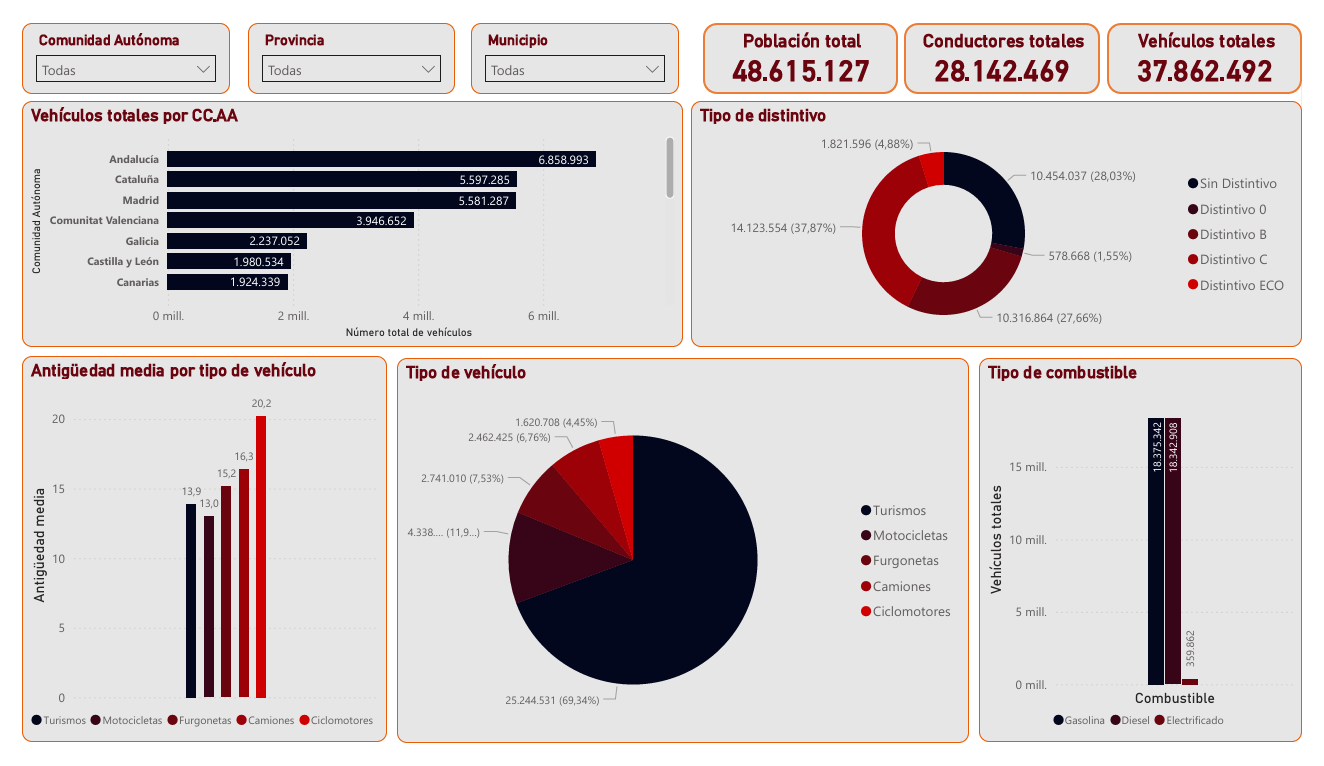
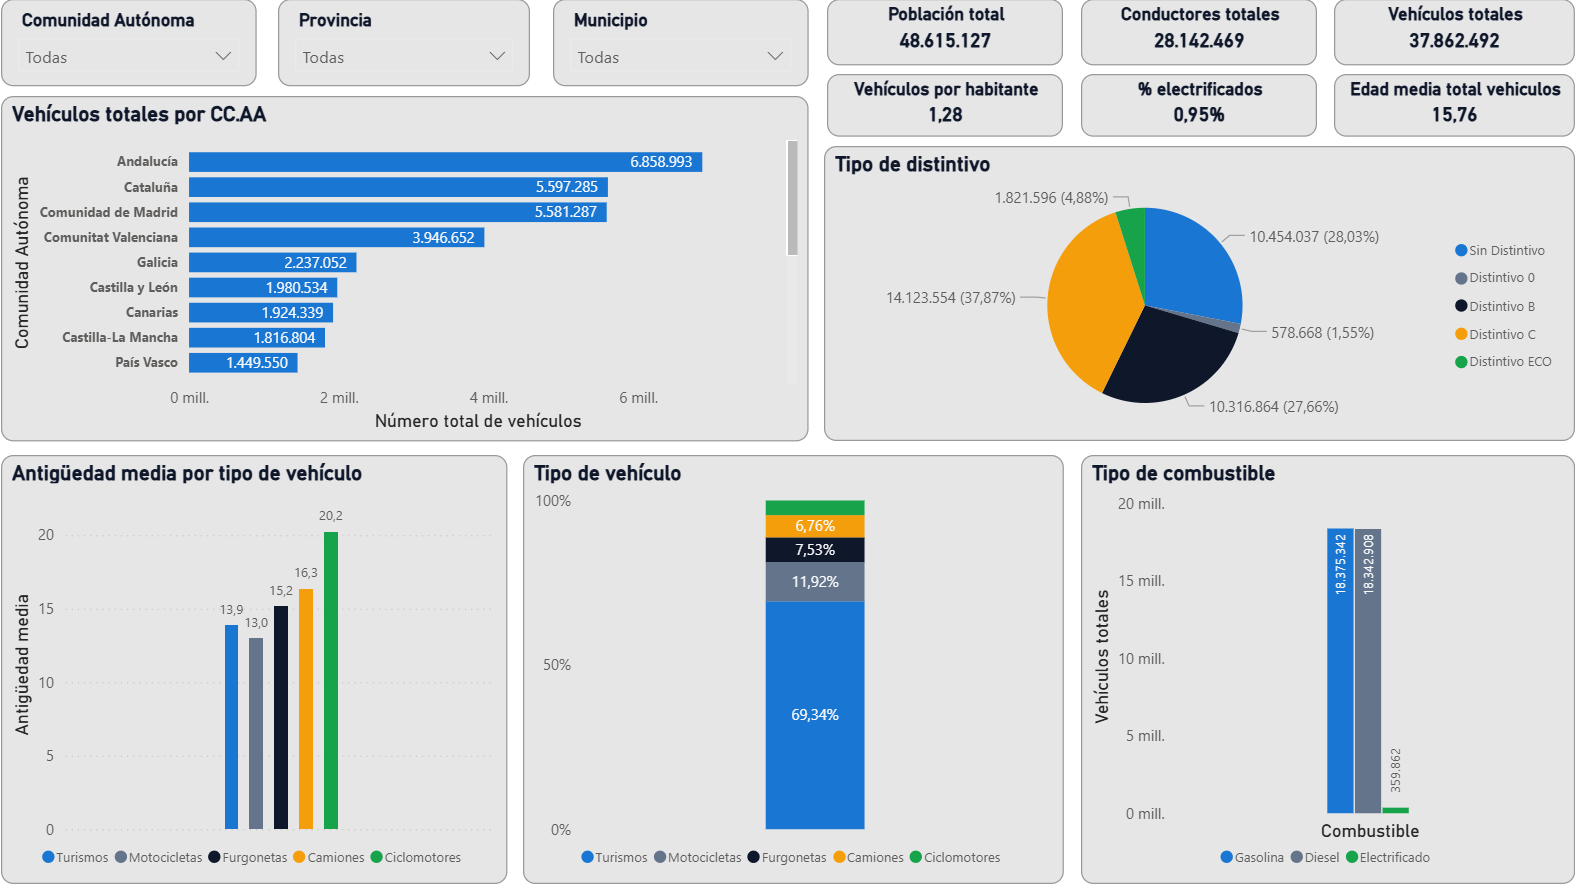
README and screenshot changes

diff --git a/README.md b/README.md
@@ -1,0 +1,157 @@
+Contenidos / Contents:
+
+- [Spanish version](#spanish-version)
+- [English version](#english-version)
+
+## Spanish version ### 
+
+## [Dashboard interactivo](https://app.powerbi.com/view?r=eyJrIjoiYjgxYzFmNWMtMmM2NS00MjMwLWI4OTktYWI5M2Q4OTViODg3IiwidCI6IjMxNjUxZjMwLWUwZTktNDMxYy04YzVlLWY1YzQ5MTMwZjY2MiIsImMiOjh9)
+
+Los datos públicos contienen información valiosa, pero sin un tratamiento analítico adecuado resultan difíciles de interpretar y utilizar para la toma de decisiones. El parque automovilístico español es un buen ejemplo: millones de registros distribuidos territorialmente que, sin modelado ni visualización estructurada, no permiten identificar patrones relevantes. 
+
+Este proyecto analiza el parque de vehículos en España en **2024** con el objetivo de extraer insights estratégicos sobre distribución territorial, composición por tipo de vehículo, envejecimiento del parque y grado de electrificación. 
+
+![Dashboard](images/dashboard_screenshot.png) 
+
+## Impacto del análisis: 
+Este dashboard permite: 
+- Detectar desequilibrios territoriales en el parque automovilístico. 
+- Evaluar el ritmo real de transición hacia movilidad sostenible. 
+- Identificar el envejecimiento estructural del parque español. 
+- Servir como base para análisis predictivos o estudios de política pública. 
+
+## Objetivos 
+- Analizar la distribución del parque automovilístico por Comunidad Autónoma. 
+- Evaluar la composición por tipo de vehículo. 
+- Medir el grado de electrificación del parque. 
+- Estudiar la edad media de los vehículos y sus implicaciones. 
+- Construir un dashboard interactivo que permita explorar los datos de forma intuitiva. 
+
+## Fuente de datos 
+Los datos han sido obtenidos en formato Excel a través de la web oficial de la [DGT](https://www.dgt.es/menusecundario/dgt-en-cifras/dgt-en-cifras-resultados/dgt-en-cifras-detalle/Datos-municipales-informacion-general-2024/). Contienen información sobre:
+
+- La composición del parque de vehículos en España 
+- La antigüedad de los vehículos 
+- El censo de conductores 
+- La cantidad de vehículos por Comunidad Autónoma, provincia y municipio 
+- La distribución de vehículos según los distintos tipos de distintivos ambientales 
+- El total de vehículos y su clasificación por tipo 
+
+## Visualizaciones 
+- **KPIs**: Nº total de vehículos, nº total de conductores, porcentaje de vehículos electrficados, vehículos por habitante, edad media total de vehículos 
+- **Gráfico de barras horizontales**: Número total de vehículos por Comunidad Autónoma 
+- **Gráfico de barras verticales**: Antigüedad promedio por tipo de vehículo 
+- **Gráfico de barras horizontales apiladas**: Distribución de tipos de vehículos 
+- **Gráfico de tarta**: Distribución de distintivos ambientales 
+- **Gráfico de barras verticales**: Distribución de tipo de combustible 
+- **Segmentadores**: Comunidad Autónoma, provincia y municipio 
+
+## Metodología 
+El desarrollo del proyecto incluyó: 
+- Limpieza y estandarización de nombres geográficos. 
+- Modelado relacional en Power BI. 
+- Creación de medidas DAX para agregaciones y KPIs. 
+- Diseño orientado a usabilidad y claridad ejecutiva. 
+
+## Insights Clave 
+- El 69% del parque está compuesto por turismos, lo que confirma un modelo de movilidad centrado en vehículo privado ligero. 
+- La electrificación (<1%) muestra una adopción todavía marginal, lejos de los objetivos europeos de descarbonización. 
+- La edad media superior a 15 años indica un parque envejecido, con impacto potencial en emisiones y seguridad vial. 
+- Andalucía, Cataluña y Madrid concentran el mayor volumen absoluto de vehículos, evidenciando desequilibrios territoriales. 
+
+### Conclusión
+El análisis revela una transición energética más lenta de lo esperado y una estructura de parque envejecida, lo que plantea desafíos significativos para las políticas públicas de movilidad sostenible y renovación del parque. 
+
+## Herramientas utilizadas 
+- Power BI Desktop 
+- DAX 
+- Excel 
+
+## Archivos 
+- `data/`: dataset utilizado 
+- `docs/`: paleta de colores utilizada para el dashboard 
+- `images/`: capturas de pantalla del dashboard 
+- `vehiculos_españa_dashboard.pbit`: plantilla del dashboard **sin datos** 
+- `vehiculos_españa_dashboard.pbix`: versión completa del dashboard lista para abrir (1,6 MB, datos públicos) 
+
+## Notas 
+- Los valores mostrados corresponden a promedios y totales agregados. 
+- El análisis depende de la calidad y actualización de los datos publicados por la DGT.
+
+
+## English version
+
+## [Interactive Dashboard](https://app.powerbi.com/view?r=eyJrIjoiYjgxYzFmNWMtMmM2NS00MjMwLWI4OTktYWI5M2Q4OTViODg3IiwidCI6IjMxNjUxZjMwLWUwZTktNDMxYy04YzVlLWY1YzQ5MTMwZjY2MiIsImMiOjh9)
+
+Public data contains valuable information, but without proper analytical treatment it is difficult to interpret and use for decision-making. The Spanish vehicle fleet is a clear example: millions of territorially distributed records that, without structured modeling or visualization, make it hard to identify meaningful patterns.  
+
+This project analyzes Spain’s vehicle fleet in **2024** with the objective of extracting strategic insights about territorial distribution, vehicle type composition, fleet aging, and electrification levels.  
+
+![Dashboard](images/dashboard_screenshot_en.png)
+
+## Analysis Impact
+This dashboard allows you to:
+
+- Detect territorial imbalances in the vehicle fleet.  
+- Evaluate the real pace of transition toward sustainable mobility.  
+- Identify structural aging within the Spanish fleet.  
+- Serve as a basis for predictive analyses or public policy studies.
+
+## Objectives
+- Analyze the distribution of the vehicle fleet by Autonomous Community.  
+- Evaluate the composition by vehicle type.  
+- Measure the level of electrification.  
+- Study the average age of vehicles and its implications.  
+- Build an interactive dashboard that allows intuitive data exploration.
+
+## Data Source
+The data was obtained in Excel format from the official website of the [DGT](https://www.dgt.es/menusecundario/dgt-en-cifras/dgt-en-cifras-resultados/dgt-en-cifras-detalle/Datos-municipales-informacion-general-2024/). It contains information about:
+
+- The composition of the vehicle fleet in Spain  
+- Vehicle age  
+- Driver census  
+- Number of vehicles by Autonomous Community, province, and municipality  
+- Distribution of vehicles according to environmental label types  
+- Total vehicles and classification by type
+
+## Visualizations
+- **KPIs**: Total number of vehicles, total number of drivers, percentage of electrified vehicles, vehicles per inhabitant, overall average vehicle age  
+- **Horizontal bar chart**: Total vehicles by Autonomous Community  
+- **Vertical bar chart**: Average age by vehicle type  
+- **Stacked horizontal bar chart**: Distribution of vehicle types  
+- **Pie chart**: Environmental label distribution  
+- **Vertical bar chart**: Fuel type distribution  
+- **Slicers**: Autonomous Community, province, and municipality
+
+## Methodology
+The project development included:
+
+- Cleaning and standardizing geographic names  
+- Relational modeling in Power BI  
+- Creation of DAX measures for aggregations and KPIs  
+- Dashboard design focused on usability and executive clarity
+
+## Key Insights
+- 69% of the fleet consists of passenger cars, confirming a mobility model centered on private light vehicles.  
+- Electrification (<1%) remains marginal, far from European decarbonization targets.  
+- An average age over 15 years indicates an aging fleet, with potential impacts on emissions and road safety.  
+- Andalusia, Catalonia, and Madrid concentrate the highest absolute number of vehicles, highlighting territorial imbalances.
+
+### Conclusion
+The analysis reveals a slower-than-expected energy transition and an aging fleet structure, posing significant challenges for sustainable mobility policies and fleet renewal.
+
+## Tools Used
+- Power BI Desktop  
+- DAX  
+- Excel
+
+## Files
+- `data/`: dataset used  
+- `docs/`: color palette used for the dashboard  
+- `images/`: dashboard screenshots  
+- `vehiculos_españa_dashboard.pbit`: dashboard template **without data**  
+- `vehiculos_españa_dashboard.pbix`: full dashboard version ready to open (1.6 MB, public data)
+
+## Notes
+- Displayed values correspond to aggregated totals and averages.  
+- The analysis depends on the quality and updates of the data published by the DGT.
